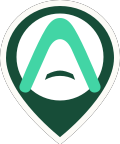
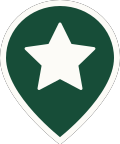
feat(map): simplify featured pins and add Saved shortcut
Use a high-contrast star pin rasterized at each supported density. Add a localized Saved pill after the categories that opens Saved Places without a location or search request.

Changed region(s): [[0.125, 0.0833, 0.875, 0.7222]]

diff --git a/src/features/map/home-map-controls.test.ts b/src/features/map/home-map-controls.test.ts
@@ -15,7 +15,7 @@ afterEach(async () => { await act(async () => tree?.unmount()); });
 async function setup(language = 'en', overrides: Partial<HomeMapControlsProps> = {}) {
   const translations = createInstance();
   await translations.use(initReactI18next).init({ ...localizationOptions, lng: language, react: { useSuspense: false } });
-  const callbacks = { onSearchNearby: vi.fn(), onOpenDestinations: vi.fn(), onQueryChange: vi.fn(), onCategoryChange: vi.fn(), onSearchArea: vi.fn() };
+  const callbacks = { onSearchNearby: vi.fn(), onOpenDestinations: vi.fn(), onOpenSavedPlaces: vi.fn(), onQueryChange: vi.fn(), onCategoryChange: vi.fn(), onSearchArea: vi.fn() };
   const props = { ...callbacks, canSearch: true, searching: false, canSearchArea: true, areaRadiusMeters: 1000, query: '', ...overrides };
   const render = (changes: Partial<HomeMapControlsProps> = {}) => React.createElement(I18nextProvider, { i18n: translations }, withHeroUI(React.createElement(HomeMapControls, { ...props, ...changes })));
   await act(async () => { tree = create(render()); });
@@ -60,7 +60,7 @@ it('keeps Featured pinned before every scrolling category, with independent acti
   const { callbacks, render } = await setup('en', { category: 'restaurants' });
   const rail = tree.root.findByType('scroll' as React.ElementType);
   expect(rail.props.horizontal).toBe(true);
-  expect(rail.findAllByType('button').map(node => node.props.accessibilityLabel)).toEqual(['All', 'Attractions', 'Restaurants', 'Hotels', 'Shopping']);
+  expect(rail.findAllByType('button').map(node => node.props.accessibilityLabel)).toEqual(['All', 'Attractions', 'Restaurants', 'Hotels', 'Shopping', 'Saved Places']);
   expect(rail.findAllByType('button')).not.toContain(button('Featured Destinations'));
   expect(visibleText()).toContain('Featured');
   expect(button('Featured Destinations').props.accessibilityState?.selected).toBeUndefined();
@@ -75,6 +75,20 @@ it('keeps Featured pinned before every scrolling category, with independent acti
   expect(button('Hotels').props.accessibilityState.selected).toBe(true);
   expect(callbacks.onSearchNearby).not.toHaveBeenCalled();
   expect(buttons().some(node => ['Recenter', 'Settings'].includes(node.props.accessibilityLabel))).toBe(false);
+});
+
+it.each(['en', 'ja', 'ko'])('ends the %s category rail with an independent localized Saved Places action', async language => {
+ const { callbacks, translations } = await setup(language, { canSearch: false, searching: true });
+ const rail = tree.root.findByType('scroll' as React.ElementType);
+ const saved = rail.findAllByType('button').at(-1)!;
+ expect(saved.props.accessibilityLabel).toBe(translations.t('journal.savedTitle'));
+ expect(translations.exists('exploreCleanup.savedShort', { lng: language, fallbackLng: false })).toBe(true);
+ expect(visibleText()).toContain(translations.t('exploreCleanup.savedShort'));
+ expect(saved.findAllByType('icon' as React.ElementType).map(node => node.props.name)).toContain('bookmark-outline');
+ await act(async () => saved.props.onPress());
+ expect(callbacks.onOpenSavedPlaces).toHaveBeenCalledOnce();
+ expect(callbacks.onCategoryChange).not.toHaveBeenCalled();
+ expect(callbacks.onSearchNearby).not.toHaveBeenCalled();
 });
 
 it('keeps area search visible with a localized radius hint and preserves availability', async () => {

diff --git a/src/features/map/home-map-controls.tsx b/src/features/map/home-map-controls.tsx
@@ -10,12 +10,12 @@ import { Spinner } from 'heroui-native/spinner';
 import { useThemeColor } from 'heroui-native/hooks';
 
 export type HomeMapControlsProps = {
-  onSearchNearby(): void; onOpenAr?(): void; onOpenDestinations(): void;
+  onSearchNearby(): void; onOpenAr?(): void; onOpenDestinations(): void; onOpenSavedPlaces?(): void;
   query?: string; onQueryChange?(query: string): void; category?: SearchCategory; onCategoryChange?(category: SearchCategory): void;
   onSearchArea?(): void; canSearchArea?: boolean; areaRadiusMeters?: number;
   canSearch: boolean; searching: boolean; onLayout?(event: LayoutChangeEvent): void;
 };
-export function HomeMapControls({ onSearchNearby, onOpenDestinations, canSearch, searching, onLayout, query, onQueryChange, category = 'all', onCategoryChange, onSearchArea, canSearchArea, areaRadiusMeters }: HomeMapControlsProps) {
+export function HomeMapControls({ onSearchNearby, onOpenDestinations, onOpenSavedPlaces, canSearch, searching, onLayout, query, onQueryChange, category = 'all', onCategoryChange, onSearchArea, canSearchArea, areaRadiusMeters }: HomeMapControlsProps) {
   const { t } = useTranslation();
   const [ink, accent, onAccent] = useThemeColor(['default-foreground', 'accent', 'accent-foreground']);
   const searchDisabled = !canSearch || searching;
@@ -49,6 +49,10 @@ export function HomeMapControls({ onSearchNearby, onOpenDestinations, canSearch,
           <Ionicons name={({ all: 'apps-outline', attractions: 'camera-outline', restaurants: 'restaurant-outline', hotels: 'bed-outline', shopping: 'bag-handle-outline' } as const)[value]} size={17} color={category === value ? onAccent : ink} accessible={false} />
           <Button.Label>{t(`search.categories.${value}`)}</Button.Label>
         </Button>)}
+        {onOpenSavedPlaces && <Button size="sm" variant="secondary" hitSlop={{top:6,bottom:6}} className="h-auto min-h-9! rounded-pill border border-brand-strong/25 bg-surface! px-3 py-1! shadow-sm" accessibilityLabel={t('journal.savedTitle')} onPress={onOpenSavedPlaces}>
+          <Ionicons name="bookmark-outline" size={17} color={ink} accessible={false} />
+          <Button.Label>{t('exploreCleanup.savedShort')}</Button.Label>
+        </Button>}
       </ScrollView>}
     </View>
     {onSearchArea && <View className="-mt-2 min-h-12 items-center justify-center self-center" pointerEvents="box-none"><Button size="sm" variant="primary" hitSlop={{top:6,bottom:6}} className="h-auto min-h-9! rounded-pill px-4 py-1!"

diff --git a/src/features/map/map-screen.tsx b/src/features/map/map-screen.tsx
@@ -302,7 +302,8 @@ function MapContent({ position, locationReady, accuracy, locationStatus, locatio
       query={draftQuery} onQueryChange={setDraftQuery} category={category} onCategoryChange={setCategory}
       onSearchArea={searchArea} canSearchArea={mapEnabled && !!viewport} areaRadiusMeters={viewport?.radiusMeters}
       onLayout={(event) => setHeaderHeight(event.nativeEvent.layout.height + insets.top)}
-      onOpenAr={() => router.navigate('/ar')} onOpenDestinations={() => router.navigate('/destinations')} />
+      onOpenAr={() => router.navigate('/ar')} onOpenDestinations={() => router.navigate('/destinations')}
+      onOpenSavedPlaces={() => { if (canInteract()) router.navigate('/saved-places'); }} />
     </View>
     <MapRecenter disabled={!enabled} position={sheetPosition} onPress={() => enabled && map.current?.animateToRegion({ ...position, latitudeDelta: 0.02, longitudeDelta: 0.02 }, 400)} />
     <HomePlaceSheet saveAction={<>{featured ? <SavePlaceAction variant="outline" className="h-auto min-h-12 w-full py-3" reference={{kind:'featured',id:featured.id}} aliases={featuredBookmarkAliases(featured.id, journal?.state.bookmarks ?? [])} /> : selectedId ? <SavePlaceAction variant="outline" className="h-auto min-h-12 w-full py-3" reference={{kind:'google',id:selectedId}} placeName={place?.name ?? seed?.name} pin={place && (completeSnapshot?.updatedAt ?? seed?.capturedAt) ? { coordinates: place.coordinates, capturedAt: completeSnapshot?.updatedAt ?? seed!.capturedAt! } : undefined} /> : null}<JournalFeedback/></>} geometry={sheetGeometry} animatedPosition={sheetPosition} key={selectionKey} state={state} selectedPlace={place ?? null} selectionName={seed?.name} hasSelection={!!selectedId || !!featured}

diff --git a/src/features/map/map-screen.test.ts b/src/features/map/map-screen.test.ts
@@ -25,6 +25,16 @@ it('shows the supplied featured summary without initiating paid discovery', asyn
   expect(placesService.details).not.toHaveBeenCalled();
 });
 
+it('opens Saved Places from the map pill without location or provider work', async () => {
+ controls.hasLocation = false;
+ await act(async () => { tree = create(renderMap()); });
+ await press('journal.savedTitle');
+ expect(router.navigate).toHaveBeenCalledExactlyOnceWith('/saved-places');
+ expect(placesService.nearby).not.toHaveBeenCalled();
+ expect(placesService.details).not.toHaveBeenCalled();
+ expect(placesService.search).not.toHaveBeenCalled();
+});
+
 const controls = vi.hoisted(() => ({
   fit: vi.fn(), animate: vi.fn(), active: true, focused: true,
   language: 'en' as 'en' | 'ko' | 'ja',

diff --git a/docs/validation.md b/docs/validation.md
@@ -3778,3 +3778,29 @@ change has code/CSS verification rather than a new captured native frame.
 Checks: targeted gallery/page/map/shared UI **135 tests passed**; `npm run check`
 passed strict TypeScript, zero-warning lint and **1,641 tests in 145 files**;
 `git diff --check` passed. No dependency/native/configuration changes or APK build.
+
+### Follow-up: featured star pins and Saved shortcut — 2026-11-17
+
+Replaced the dense logo-in-pin artwork with a simple ivory star on forest, keeping
+the existing pin outline/footprint and static-marker behavior. The SVG is rasterized
+directly at 40×48, 80×96 and 120×144; larger outputs are not enlarged base bitmaps.
+App logos, launcher artwork, map/selection semantics and AR admission are unchanged.
+A short English A53 check verified the star rendering on D01 after Metro refreshed.
+
+The last item in the scrolling category rail is now a bookmark-icon “Saved” action.
+Its accessible label uses the existing Saved Places translation; short EN/JA/KO
+copy is localized. It opens `/saved-places` independently of GPS, category choice
+and search availability, without paid provider work. Featured remains pinned.
+The A53 rail scrolled to Saved after Shopping; tapping it displayed Saved Places
+and Your saved places. Back restored Explore and its selection. No bookmarks,
+preferences or Passport state were changed; testing stayed brief at 3% battery.
+
+The regression batch first failed for the absent rail action, missing localized
+short labels and real-map navigation, then passed **92 tests**. Full verification
+and final diff review are recorded below.
+
+`npm run check` completed with exit 0: strict TypeScript, zero-warning ESLint and
+**1,645 tests in 145 files passed**. `git diff --check` passed. Asset dimensions
+were verified and the native rendered marker inspected; no APK build, dependency,
+configuration, backend or native-patch change was needed. Japanese/Korean device
+rendering and the full large-font matrix were not repeated for this small change.
